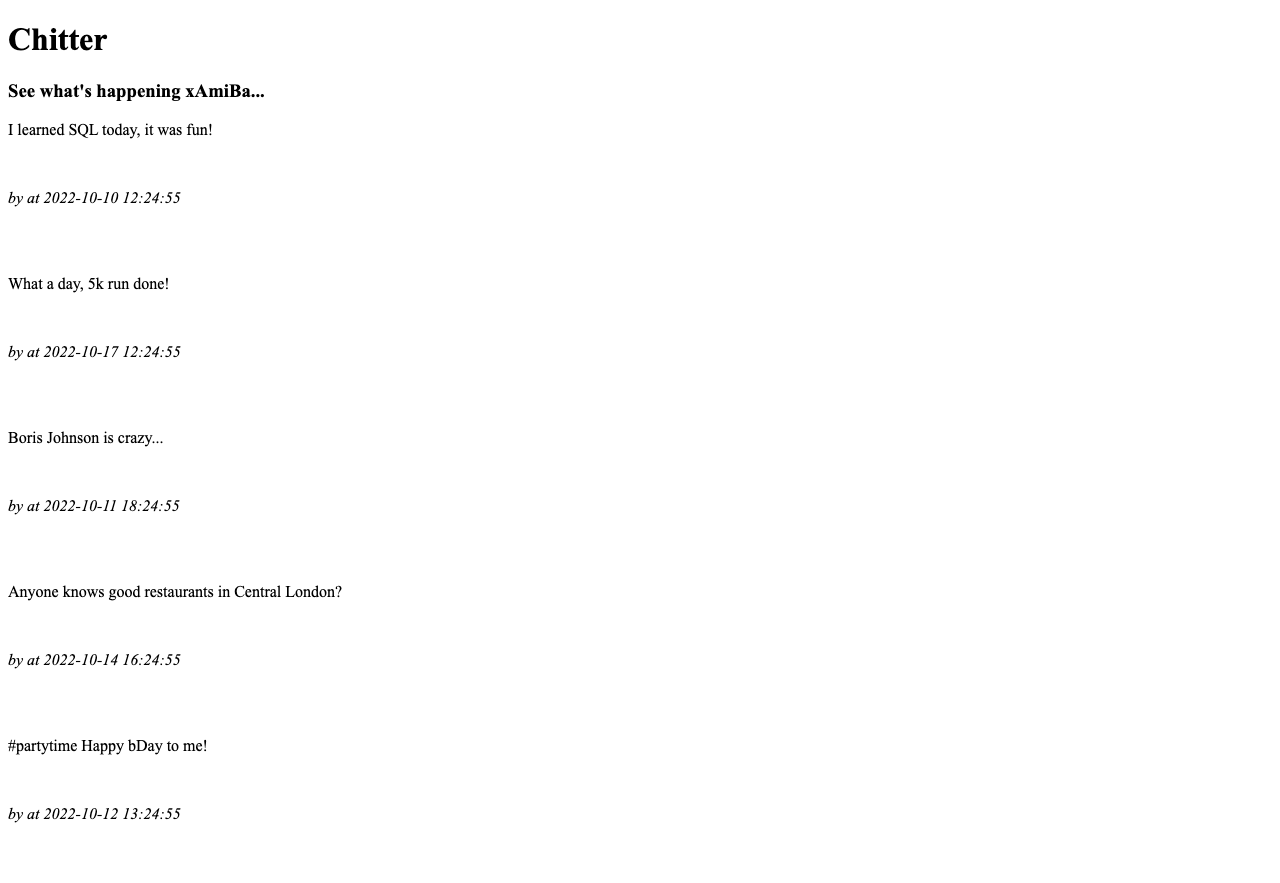
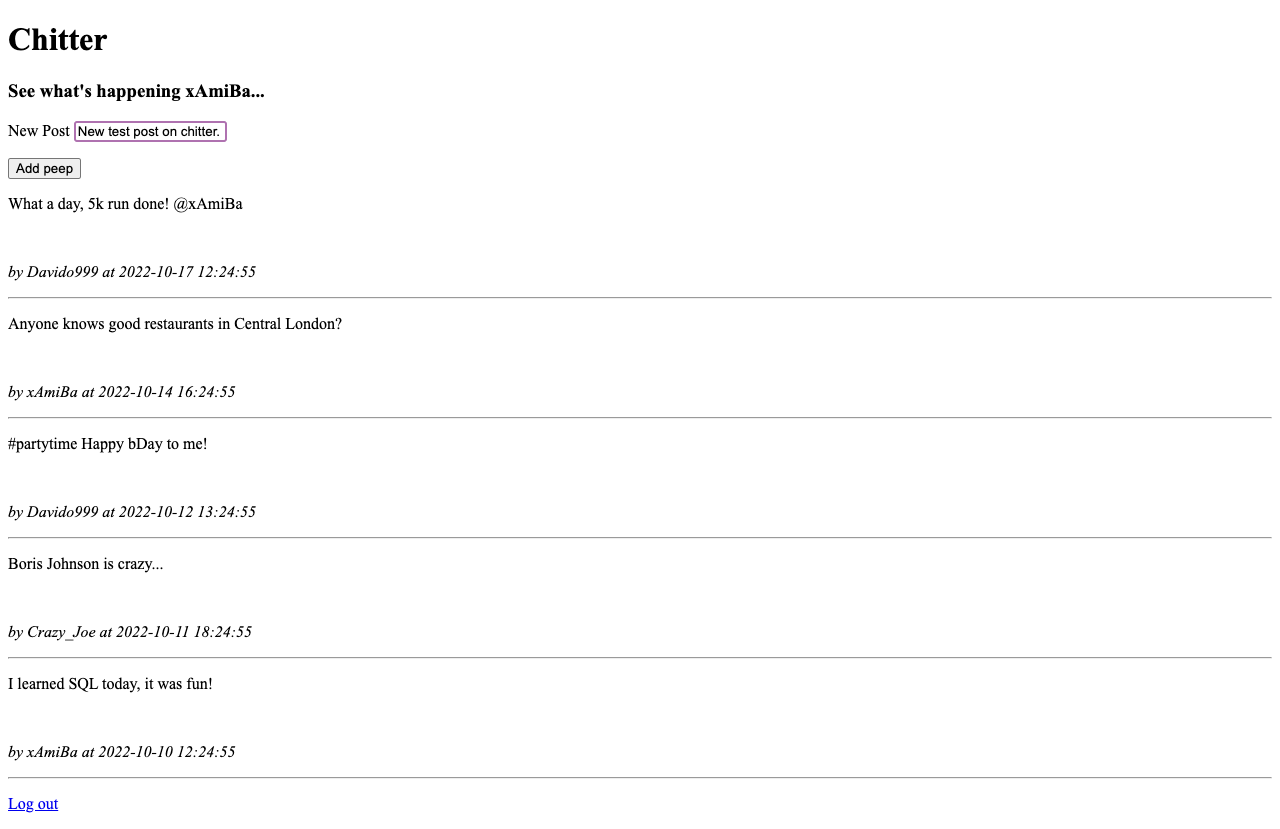
chitter app completed

diff --git a/templates/homepage.html b/templates/homepage.html
@@ -6,18 +6,39 @@
     </head>
     <body>
       <h1>Chitter</h1>
-        <p>{% if user%}
-            <h3>See what's happening {{user.username}}...</h3>
-            {% else %}
-            <h3>See what's happening...</h3>
-            {% endif %}</p>
- 
-    {% if peeps %}
-    {% for peep in peeps %}
-    <p>{{peep.content}}</p>
-    <p><i>by {{users.search_username_by_user_id(peep.user_id)}} at {{peep.date_time}}</i></p>
-    <hr>
-    {% endfor %}
-    {% endif %}
+
+      {% if user %}
+      <h3>See what's happening {{user.username}}...</h3>
+      {% else %}
+      <h3>See what's happening...</h3>
+      {% endif %}
+
+        <p class="t-new_peep">
+            {% if logged == True  %}
+            <form action="/post" method="POST">
+                <p>
+                    <label for="content">New Post</label>
+                    <input type="text" name="content" id="content">
+                    <input type="hidden" name="user_id" id="user_id" value="{{user.id}}">
+                </p>
+                <p>
+                    <input type="submit" value="Add peep">
+                </p>
+            </form>
+            {% endif %}
+        </p>
+    <p>
+        {% if peeps %}
+        {% for peep in peeps %}
+        <p class="t-peep">{{peep.content}}</p>
+        <br>
+        <p><i>by {{users.search_username_by_user_id(peep.user_id)}} at {{peep.date_time}}</i></p>
+        <hr>
+        {% endfor %}
+        {% endif %}
+    </p>
+    <p>
+        <a href="/logout">Log out</a>
+    </p>
   </body>
 </html>

diff --git a/tests/test_app.py b/tests/test_app.py
@@ -1,5 +1,6 @@
 from playwright.sync_api import Page, expect
 import pytest
+from unittest.mock import Mock
 
 
 def test_index_page(page, test_web_address):
@@ -10,8 +11,6 @@ def test_index_page(page, test_web_address):
     page.click('text=Signup to Chitter')
     signup_title_tag = page.locator('h1')
     expect(signup_title_tag).to_have_text('Signup to Chitter!')
-
-    #TODO: add test for login
 
 def test_signup_form(db_connection, page, test_web_address):
     db_connection.seed('seeds/chitter.sql')
@@ -112,7 +111,57 @@ def test_login_success(db_connection, test_web_address, page):
     title_tag = page.locator("h3")
     expect(title_tag).to_have_text("See what's happening xAmiBa...")
 
-# TODO: test peeps desplay, implement chronologial peeps
-# def test_see_all_peeps(db_connection, test_web_address, page):
-#     db_connection.seed('seeds/chitter.sql')
-#     page.goto(f"http://{test_web_address}/homepage")
+
+def test_see_all_peeps_chronologicaly(db_connection, test_web_address, page):
+    db_connection.seed('seeds/chitter.sql')
+    page.goto(f"http://{test_web_address}/homepage")
+
+    peeps = page.locator(".t-peep")
+    expect(peeps).to_have_text([
+        'What a day, 5k run done! @xAmiBa',
+        'Anyone knows good restaurants in Central London?',
+        '#partytime Happy bDay to me!',
+        'Boris Johnson is crazy...',
+        'I learned SQL today, it was fun!'])
+
+
+
+def test_get_new_post(db_connection, test_web_address, page):
+
+    db_connection.seed('seeds/chitter.sql')
+    page.goto(f"http://{test_web_address}")
+
+    page.click("text=Login to Chitter")
+    page.fill("input[name='username']", "xAmiBa")
+    page.fill("input[name='password']", "password_amina33")
+
+    page.click("text=Log in")
+
+    page.fill("input[name='content']", "New test post on chitter.")
+    page.screenshot(path="screenshot.png", full_page=True)
+    page.click("text=Add peep")
+    page.screenshot(path="screenshot2.png", full_page=True)
+
+
+    peeps = page.locator(".t-peep")
+    expect(peeps).to_have_text(['New test post on chitter.',
+                                'What a day, 5k run done! @xAmiBa',
+                                'Anyone knows good restaurants in Central London?',
+                                '#partytime Happy bDay to me!',
+                                'Boris Johnson is crazy...',
+                                'I learned SQL today, it was fun!'])
+
+def test_if_logout_button_exist(page, db_connection, test_web_address):
+    db_connection.seed('seeds/chitter.sql')
+    page.goto(f"http://{test_web_address}")
+
+    page.click("text=Login to Chitter")
+    page.fill("input[name='username']", "xAmiBa")
+    page.fill("input[name='password']", "password_amina33")
+
+    page.click("text=Log in")
+
+    page.click("text=Log out")
+
+    title_tag = page.locator('h3')
+    expect(title_tag).to_have_text('You just logged out. Goodbye!')

diff --git a/tests/test_PeepRepository.py b/tests/test_PeepRepository.py
@@ -6,11 +6,11 @@ def test_all_peeps_show(db_connection):
     repository = PeepRepository(db_connection)
     
     assert repository.all() == [
-        Peep(1, 'I learned SQL today, it was fun!', 1,'2022-10-10 12:24:55'),
-        Peep(2, 'What a day, 5k run done!', 2, '2022-10-17 12:24:55'),
-        Peep(3, 'Boris Johnson is crazy...', 3, '2022-10-11 18:24:55'),
+        Peep(2, 'What a day, 5k run done! @xAmiBa', 2, '2022-10-17 12:24:55'),
         Peep(4, 'Anyone knows good restaurants in Central London?', 1, '2022-10-14 16:24:55'),
-        Peep(5, '#partytime Happy bDay to me!', 2, '2022-10-12 13:24:55')]
+        Peep(5, '#partytime Happy bDay to me!', 2, '2022-10-12 13:24:55'),
+        Peep(3, 'Boris Johnson is crazy...', 3, '2022-10-11 18:24:55'),
+        Peep(1, 'I learned SQL today, it was fun!', 1,'2022-10-10 12:24:55')]
     
 def test_add_new_peep(db_connection):
     db_connection.seed('seeds/chitter.sql')
@@ -18,11 +18,14 @@ def test_add_new_peep(db_connection):
     repository.add(Peep(None, "Test peep content", 1, "2012-10-10 12:24:55"))
     
     assert repository.all() == [
-        Peep(1, 'I learned SQL today, it was fun!', 1,'2022-10-10 12:24:55'),
-        Peep(2, 'What a day, 5k run done!', 2, '2022-10-17 12:24:55'),
-        Peep(3, 'Boris Johnson is crazy...', 3, '2022-10-11 18:24:55'),
+        Peep(2, 'What a day, 5k run done! @xAmiBa', 2, '2022-10-17 12:24:55'),
         Peep(4, 'Anyone knows good restaurants in Central London?', 1, '2022-10-14 16:24:55'),
         Peep(5, '#partytime Happy bDay to me!', 2, '2022-10-12 13:24:55'),
+        Peep(3, 'Boris Johnson is crazy...', 3, '2022-10-11 18:24:55'),
+        Peep(1, 'I learned SQL today, it was fun!', 1,'2022-10-10 12:24:55'),
         Peep(6, "Test peep content", 1, "2012-10-10 12:24:55")]
     
-        
+def test_if_mentioned(db_connection):
+    db_connection.seed('seeds/chitter.sql')
+    repository = PeepRepository(db_connection)
+    assert repository.search_for_mention("xAmiBa") == [Peep(2, 'What a day, 5k run done! @xAmiBa', 2, '2022-10-17 12:24:55')]

diff --git a/app.py b/app.py
@@ -83,7 +83,8 @@ def post_login():
         peep_repository = PeepRepository(connection)
         peeps = peep_repository.all()
         users = UserRepository(connection)
-        return render_template(f'homepage_logged.html', users=users, peeps=peeps)
+        logged = True
+        return render_template(f'homepage.html', users=users, peeps=peeps, logged=logged, user=users.search_by_username(input_username))
 
 # GET /homepage
     # everyone can acces but not post   
@@ -92,28 +93,32 @@ def get_homepage():
     connection = get_flask_database_connection(app)
     users = UserRepository(connection)
 
-    # TODO: peeps list
     peep_repository = PeepRepository(connection)
     peeps = peep_repository.all()
     return render_template('homepage.html', peeps=peeps, users=users)
     
 
-    
-        
-    
+# POST /post
+@app.route('/post', methods=['POST'])
+def get_post():
+    connection = get_flask_database_connection(app)
+    user_id = request.form['user_id']
+    content = request.form['content']
+    new_peep = Peep(None, content, user_id)
+    repository = PeepRepository(connection)
+    repository.add(new_peep)
+    peeps = repository.all()
+    users = UserRepository(connection)
+    logged = True
+    username = users.search_username_by_user_id(user_id)
+    return render_template(f'homepage.html', users=users, peeps=peeps, logged=logged, user=users.search_by_username(username))
 
-
-    # search if password match password_valid() and redirect to homepage, else: error
-
-
-
-
-
-# GET /homepage/<unername>
-# @app.route('/homepage/<username>', methods=['GET'])
-# def get_homepage():
-#     # add peeps from peeps repository
-#     return render_template('homepage.html', peeps=peeps)
+# GET /homepage -> logout
+@app.route('/logout', methods=['GET'])
+def get_logout():
+    message = "You just logged out. Goodbye!"
+    logged = False
+    return render_template('index.html', message=message)
 
 if __name__ == '__main__':
     app.run(debug=True, port=int(os.environ.get('PORT', 5001)))

diff --git a/lib/PeepRepository.py b/lib/PeepRepository.py
@@ -5,14 +5,26 @@ class PeepRepository:
     def __init__(self, connection):
         self._connection = connection
 
-    def all(self):
+    def get_date_time(peep):
+            return peep.date_time
+
+    def all(self, get_date_time=get_date_time):
         rows = self._connection.execute("SELECT * FROM peeps;")
         peeps = [Peep(row['id'], row['content'], row['user_id'], row['date_time']) for row in rows]
-        return peeps
+
+        sorted_peeps = sorted(peeps, key=get_date_time, reverse=True)
+        return sorted_peeps
 
     def add(self, peep_object):
         self._connection.execute("INSERT INTO peeps (content, user_id, date_time) VALUES (%s, %s, %s);",
                                  [peep_object.content, peep_object.user_id, peep_object.date_time])
 
-
-    #     pass
+    def search_for_mention(self, username):
+        peeps = self.all()
+        username = "@" + username
+        mentions = [peep for peep in peeps if username in peep.content]
+        return mentions
+                  
+             
+        
+    

diff --git a/lib/Peep.py b/lib/Peep.py
@@ -4,7 +4,6 @@ class Peep:
     def __init__(self, id, content, user_id, date_time=None):
         if date_time == None:
             current_date_time = datetime.now()
-            print(current_date_time)
             self.date_time = current_date_time.strftime("%Y-%m-%d %H:%M:%S")
         else:
             self.date_time = date_time
@@ -15,3 +14,10 @@ class Peep:
 
     def __eq__(self, other):
         return self.__dict__ == other.__dict__
+    
+    # def __repr__(self) -> str:
+    #     return f"NEW PEEP: ID{self.id}, CONTENT {self.content}, USER_ID {type(self.user_id)}, DATETIME {type(self.date_time)}"
+    
+
+# OBJ = Peep(None, "hoelooooo", "1")
+# print(OBJ)

diff --git a/lib/notification.py b/lib/notification.py
@@ -1,0 +1,15 @@
+# import smtplib, ssl
+# from lib.password import password
+
+# port = 465  # For SSL
+
+# # Create a secure SSL context
+# context = ssl.create_default_context()
+
+# with smtplib.SMTP_SSL("smtp.gmail.com", port, context=context) as server:
+#     server.login("my@gmail.com", password)
+#     # TODO: Send email here
+
+
+# def send_notification(reciever_email):
+#     message =
